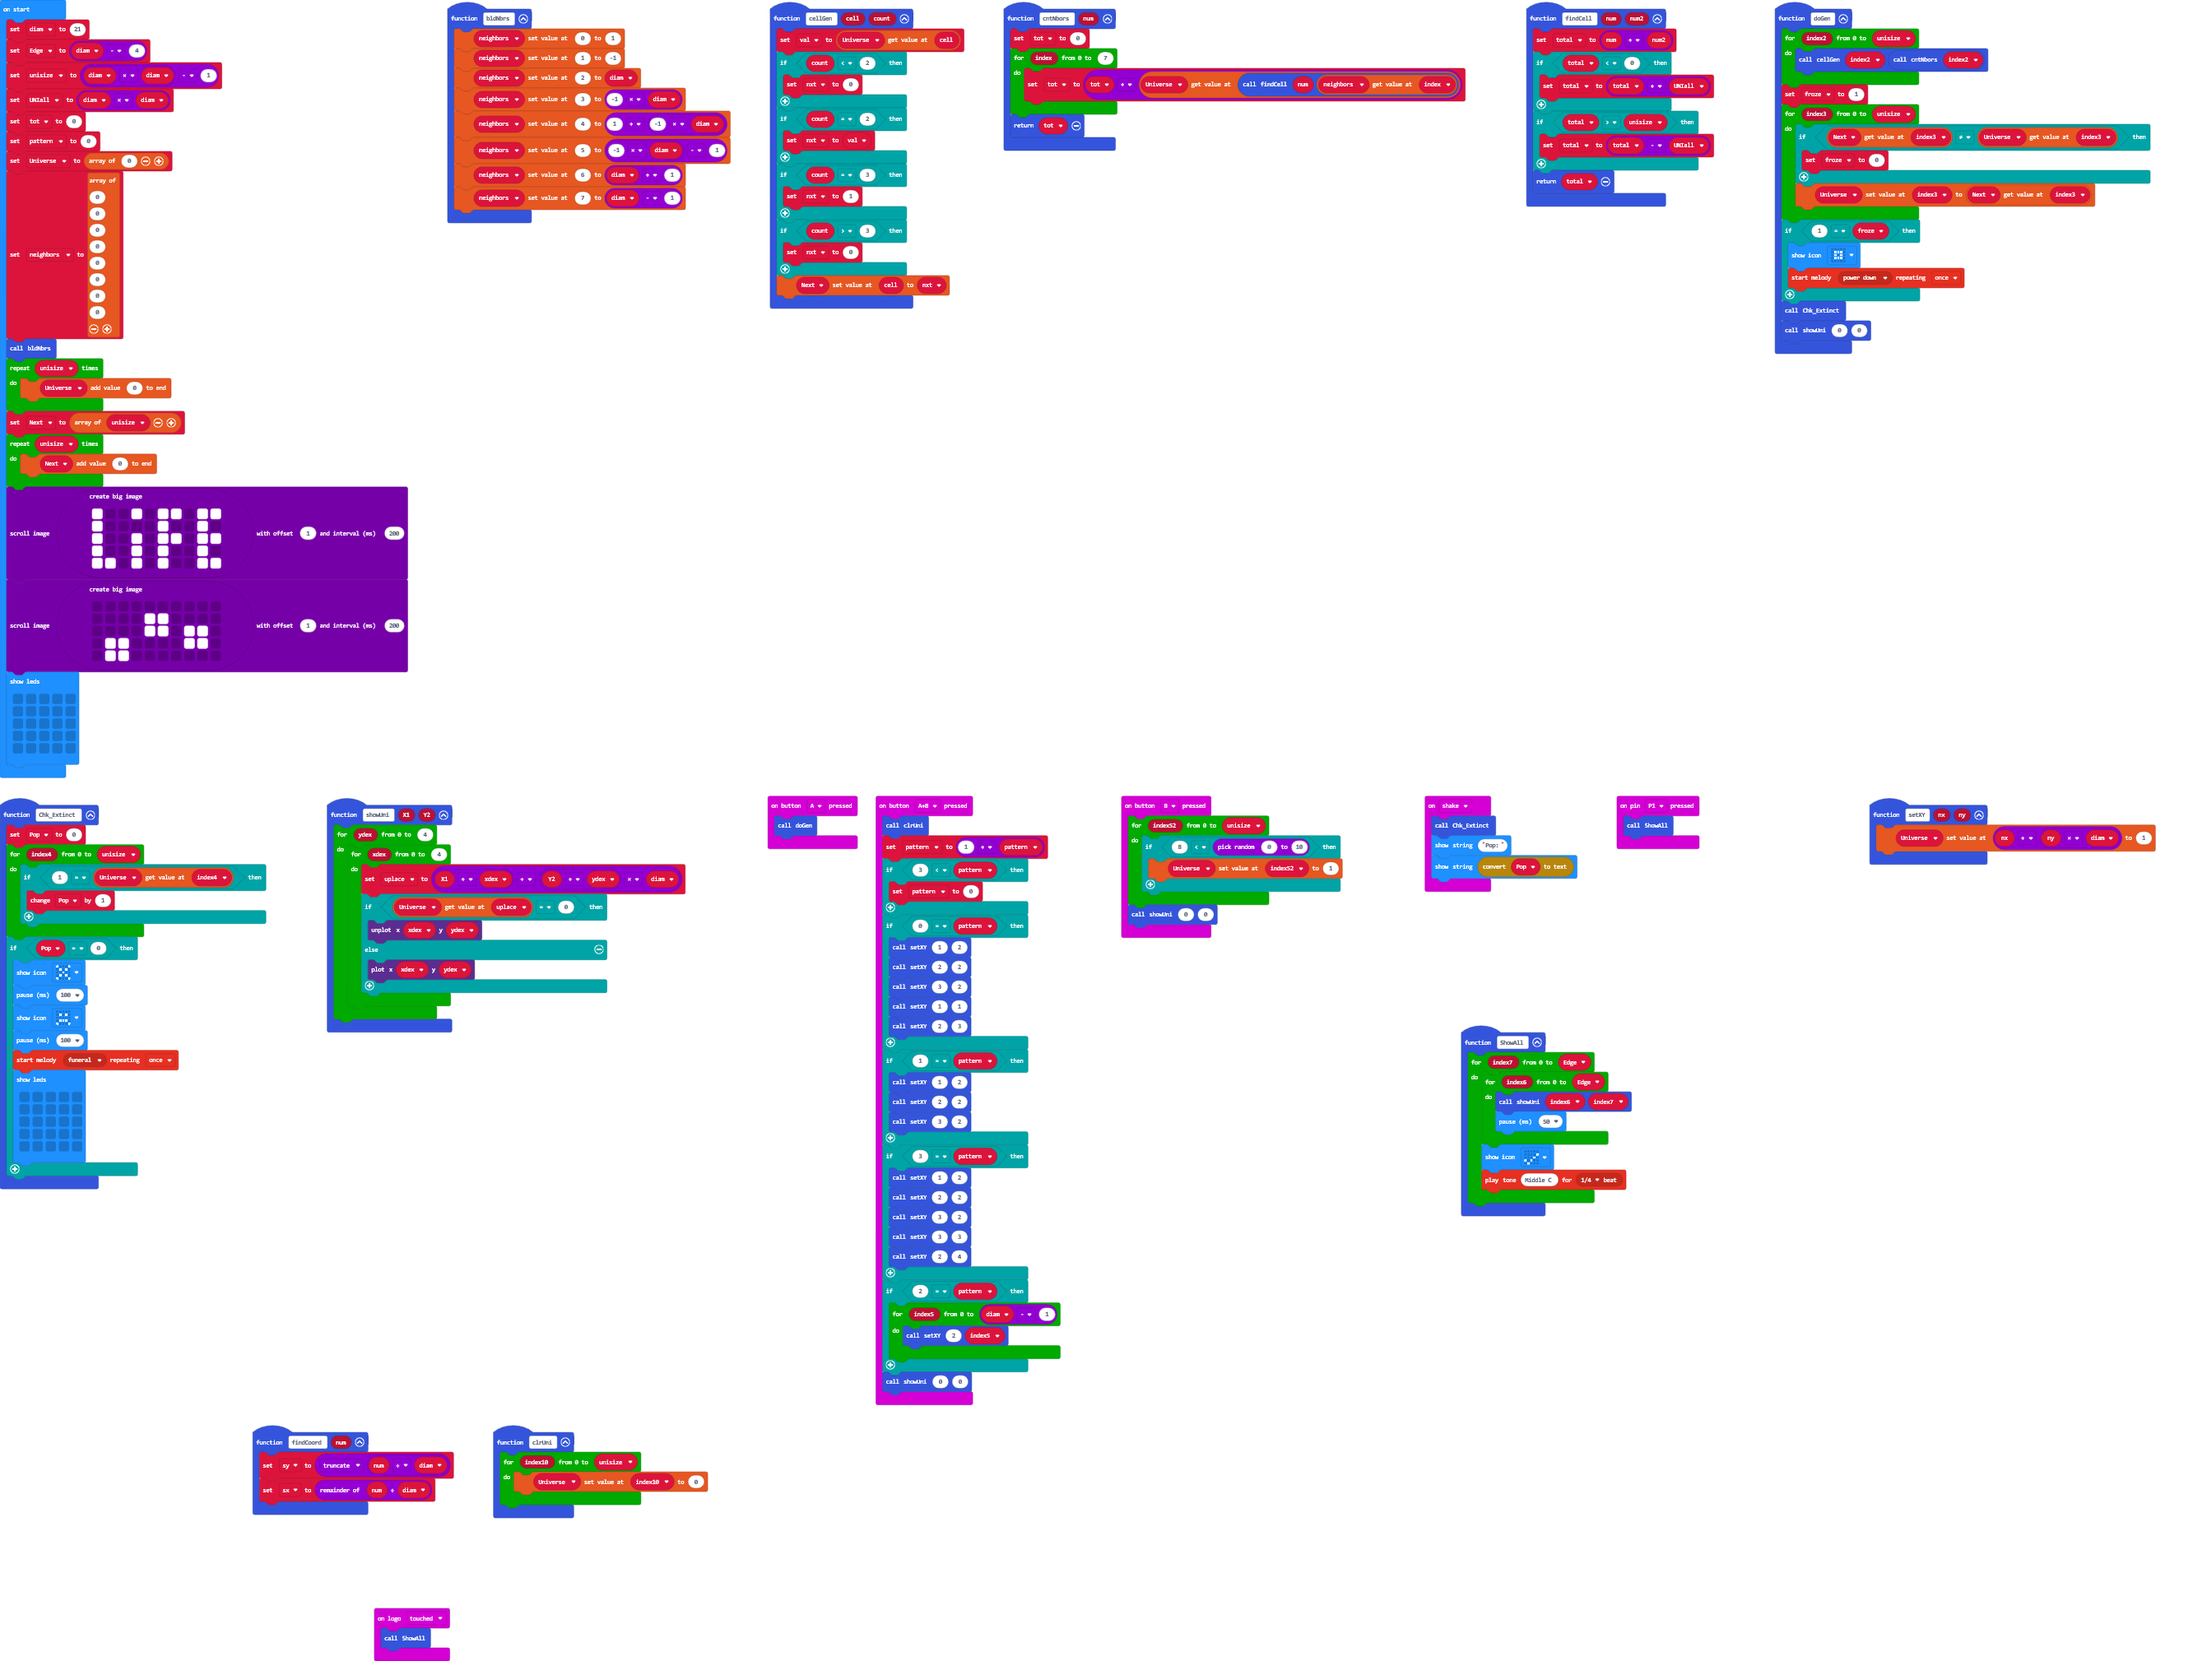
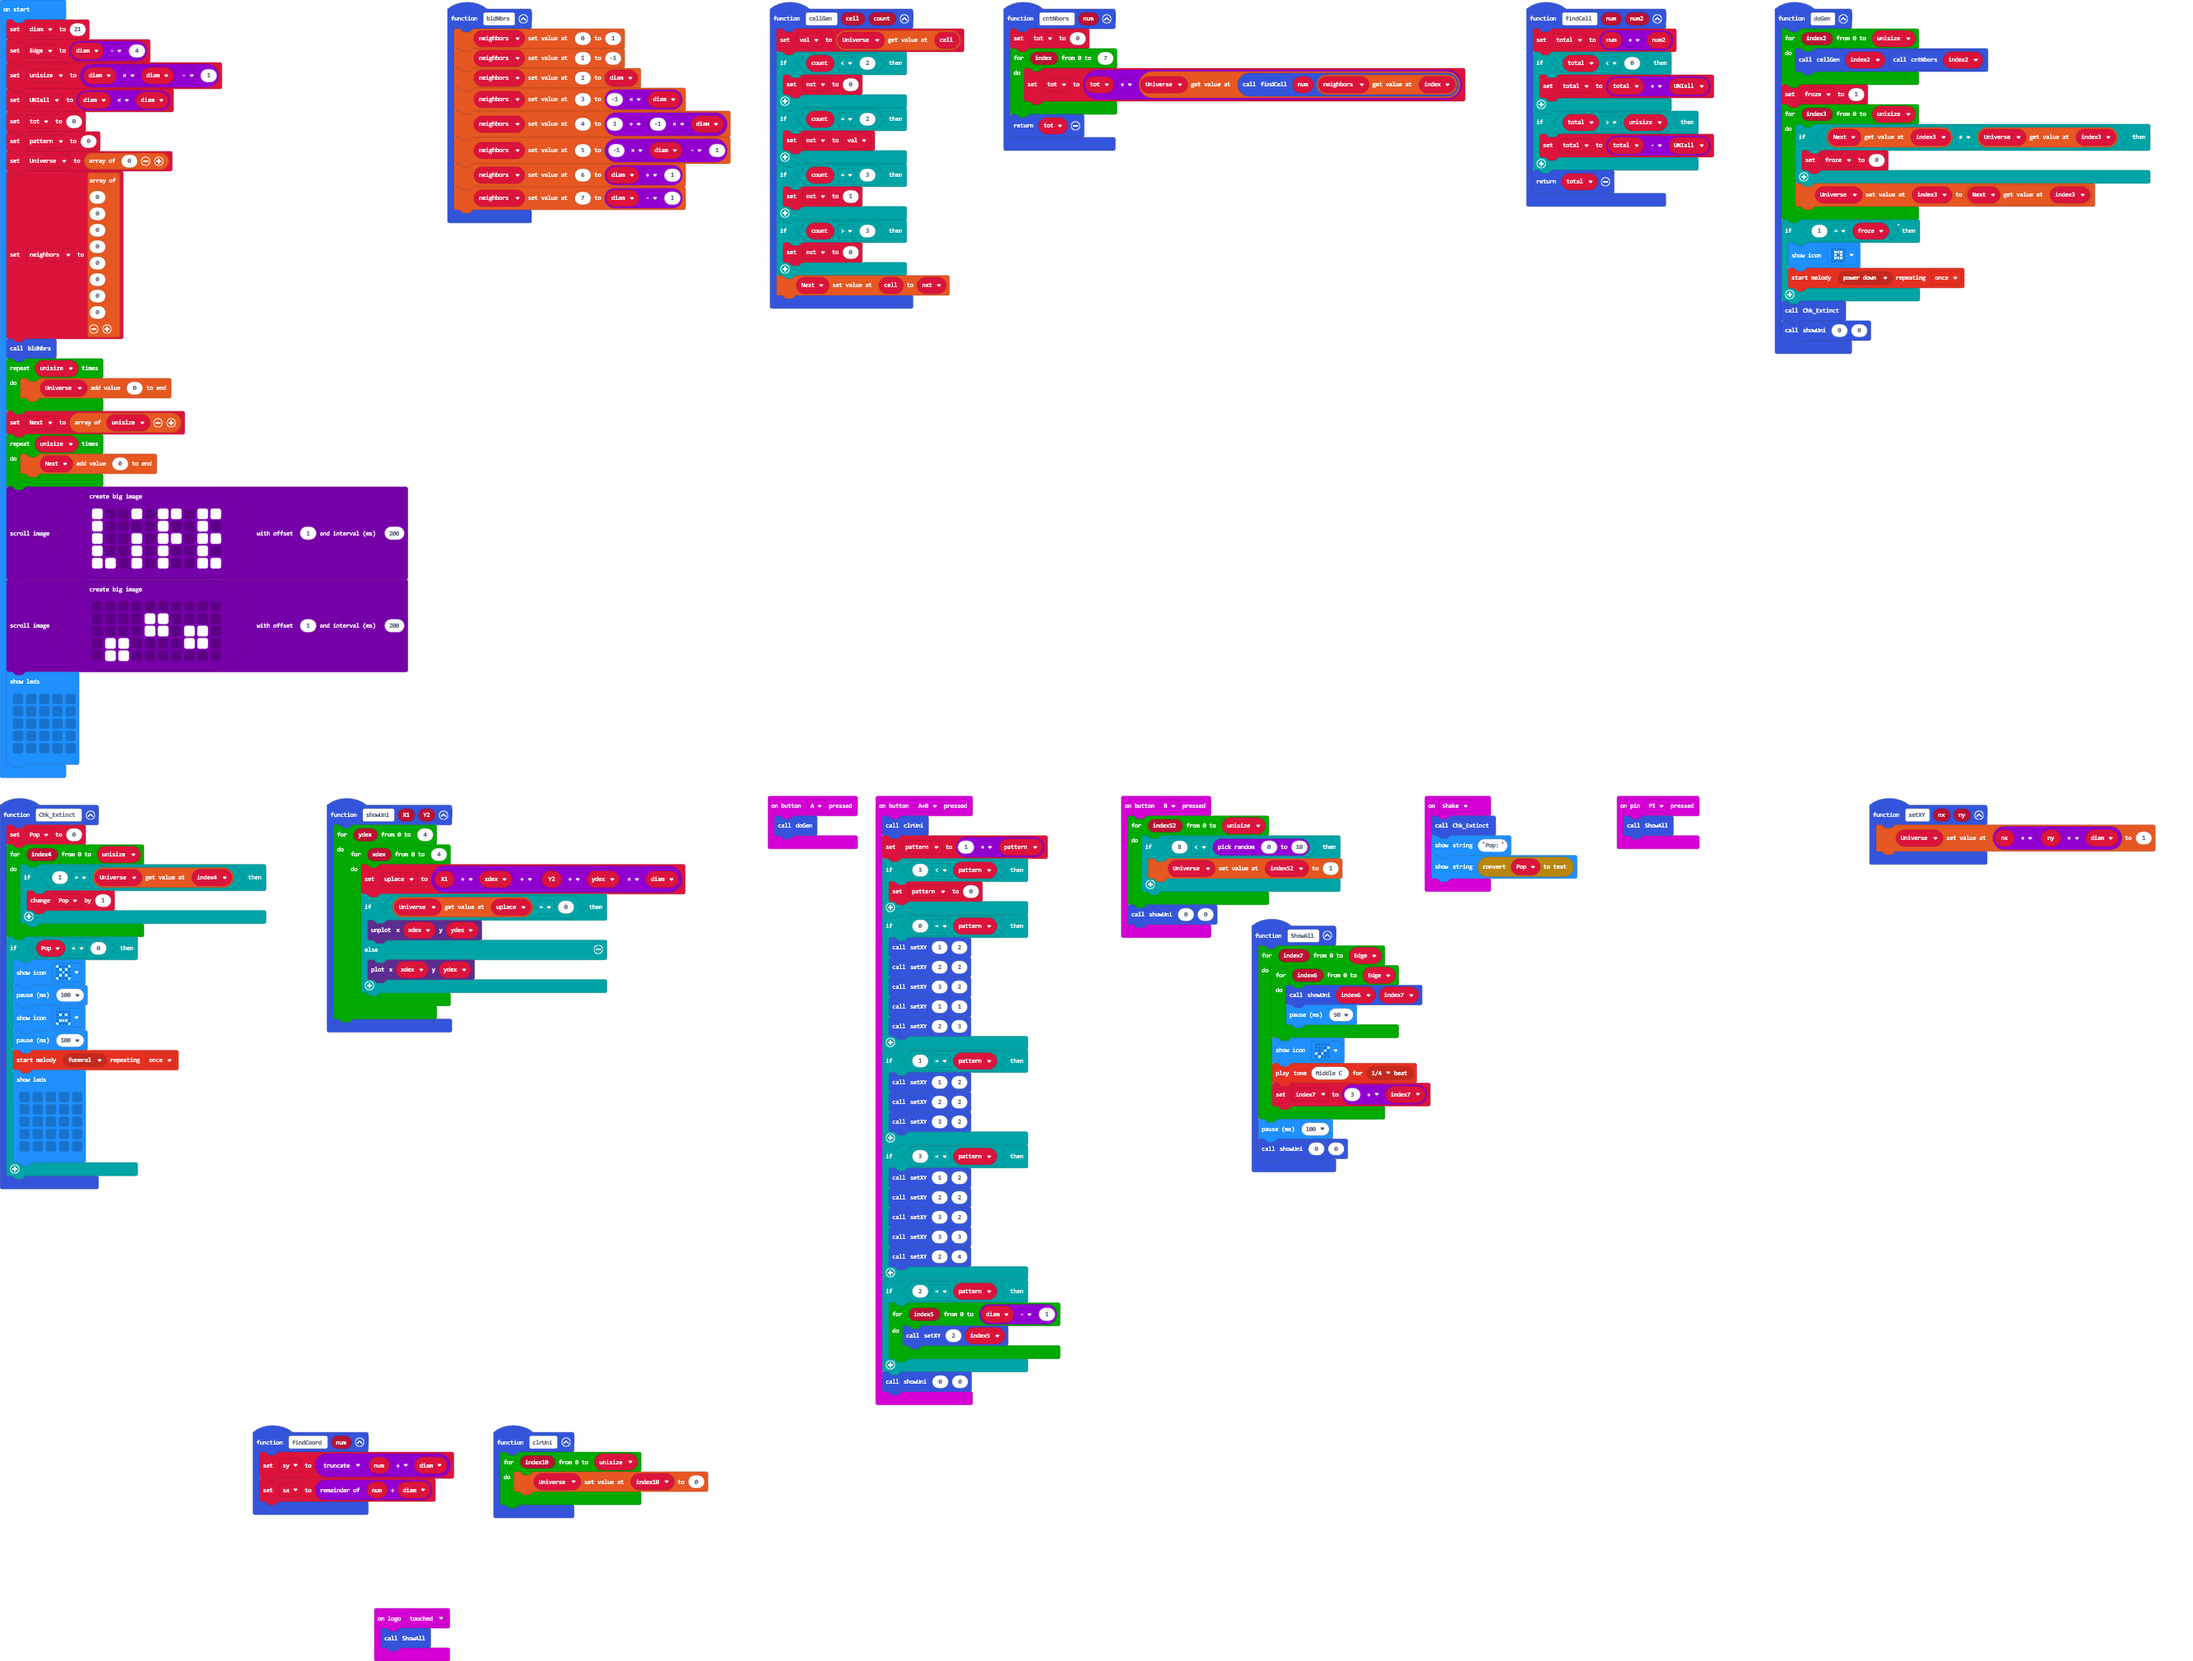
Update main.blocks, main.ts

Changed region(s): [[0.5606, 0.5305, 0.7475, 0.7489]]

diff --git a/main.ts b/main.ts
@@ -39,7 +39,10 @@ function ShowAll () {
         }
         basic.showIcon(IconNames.Yes)
         music.playTone(262, music.beat(BeatFraction.Quarter))
+        index7 = 3 + index7
     }
+    basic.pause(100)
+    showUni(0, 0)
 }
 function findCell (num: number, num2: number) {
     total = num + num2
